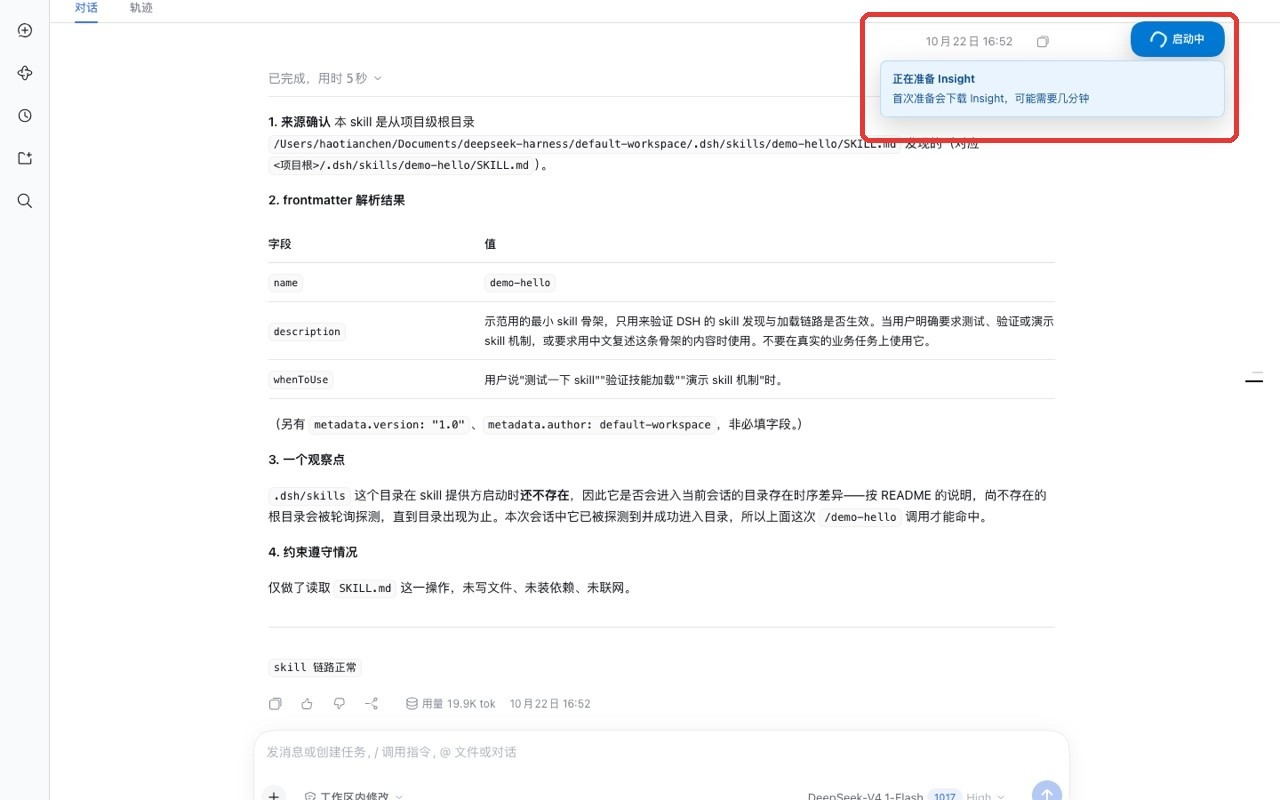
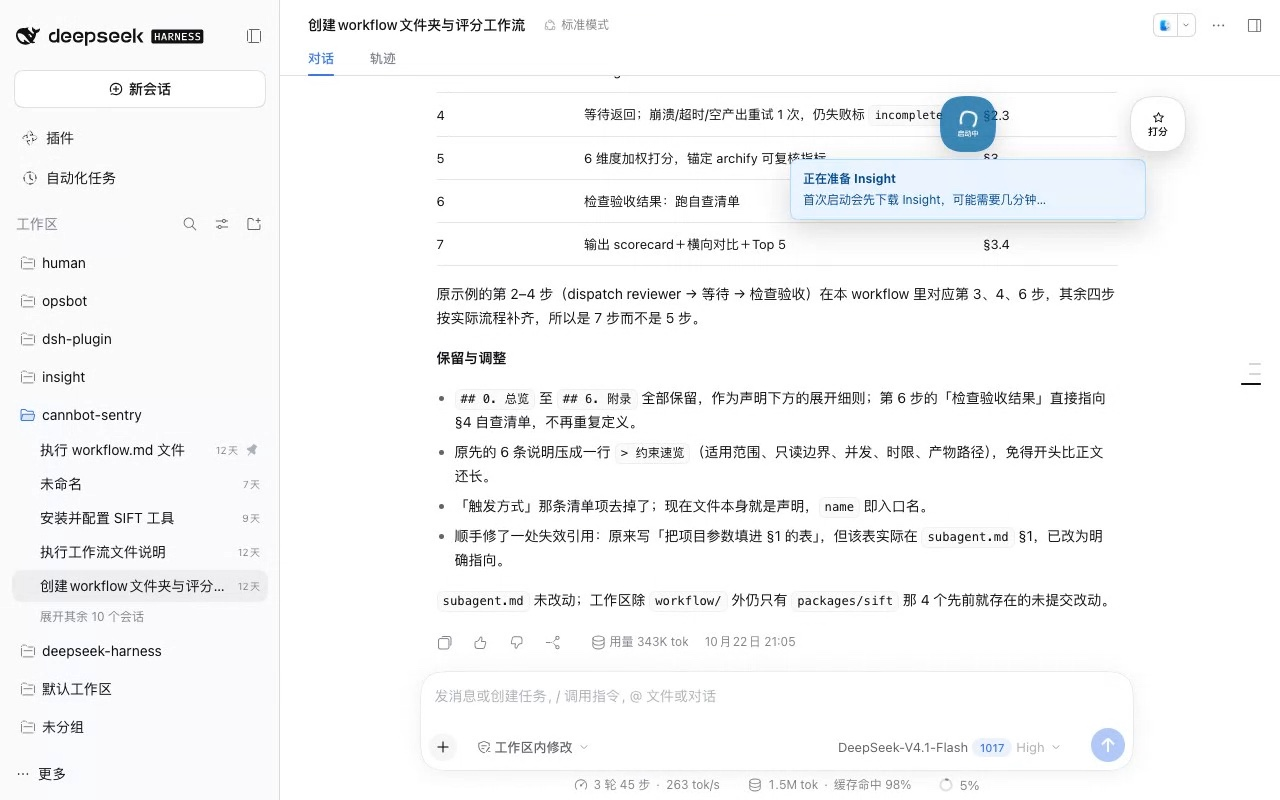
docs: refresh Observe runtime capture

diff --git a/public/plugins/observe/index.html b/public/plugins/observe/index.html
@@ -63,8 +63,8 @@
               <figcaption>旧版 Insight 环境检查界面（示意）。Observe 仅需确认 Context-Insight Runtime 和服务状态，不包含 Provider Auth 检查。</figcaption>
             </figure>
             <figure class="carousel-slide" data-carousel-slide>
-              <img src="assets/observe-runtime.jpg" width="1280" height="800" alt="首次点击 Observe 时显示正在准备 Insight。">
-              <figcaption>首次使用会准备运行时并显示进度，不需要手动安装 Context-Insight CLI。</figcaption>
+              <img src="assets/observe-runtime.jpg" width="1280" height="800" alt="当前 Observe 演示中首次点击“观测”后显示正在准备 Insight 运行时。">
+              <figcaption>当前 Observe 首次使用时会准备运行时并显示进度，不需要手动安装 Context-Insight CLI。</figcaption>
             </figure>
           </div>
         </div>
@@ -169,7 +169,7 @@
               <figure class="shot"><img src="assets/observe-actions.png" alt="DSH 会话页中的观测与打分入口。" loading="lazy"><figcaption>“观测”由 Observe Bundle 提供；“打分”只在安装 Score Bundle 后出现。</figcaption></figure>
               <h3 id="click-observe">3.3 点击“观测”</h3>
               <p>首次使用会检查并准备 <code>context-insight@0.2.41</code>。准备完成后，当前会话会被导出、导入并打开 Context-Insight 会话页。</p>
-              <figure class="shot"><img src="assets/observe-runtime.jpg" alt="DSH 页面显示正在准备 Insight 运行时。" loading="lazy"><figcaption>首次点击时显示运行时准备进度，后续会复用本地安装。</figcaption></figure>
+              <figure class="shot"><img src="assets/observe-runtime.jpg" alt="当前 Observe 演示中 DSH 页面显示正在准备 Insight 运行时。" loading="lazy"><figcaption>当前 Observe 首次点击时显示运行时准备进度，后续会复用本地安装。</figcaption></figure>
               <h3 id="verify">3.4 验证观测结果</h3>
               <figure class="shot"><img src="assets/observe-session.png" alt="Context-Insight 中的 DSH 会话观测页面。" loading="lazy"><figcaption>确认 Session 标题、Turn 数量、Tool Calls、Skills 和 Agent Swimlane 均正常显示。</figcaption></figure>
               <figure class="shot"><img src="assets/observe-environment.jpg" alt="Bundle 环境检查页。" loading="lazy"><figcaption>如果导入失败，在 DSH 插件配置页检查 Runtime 和 Service 状态。</figcaption></figure>
